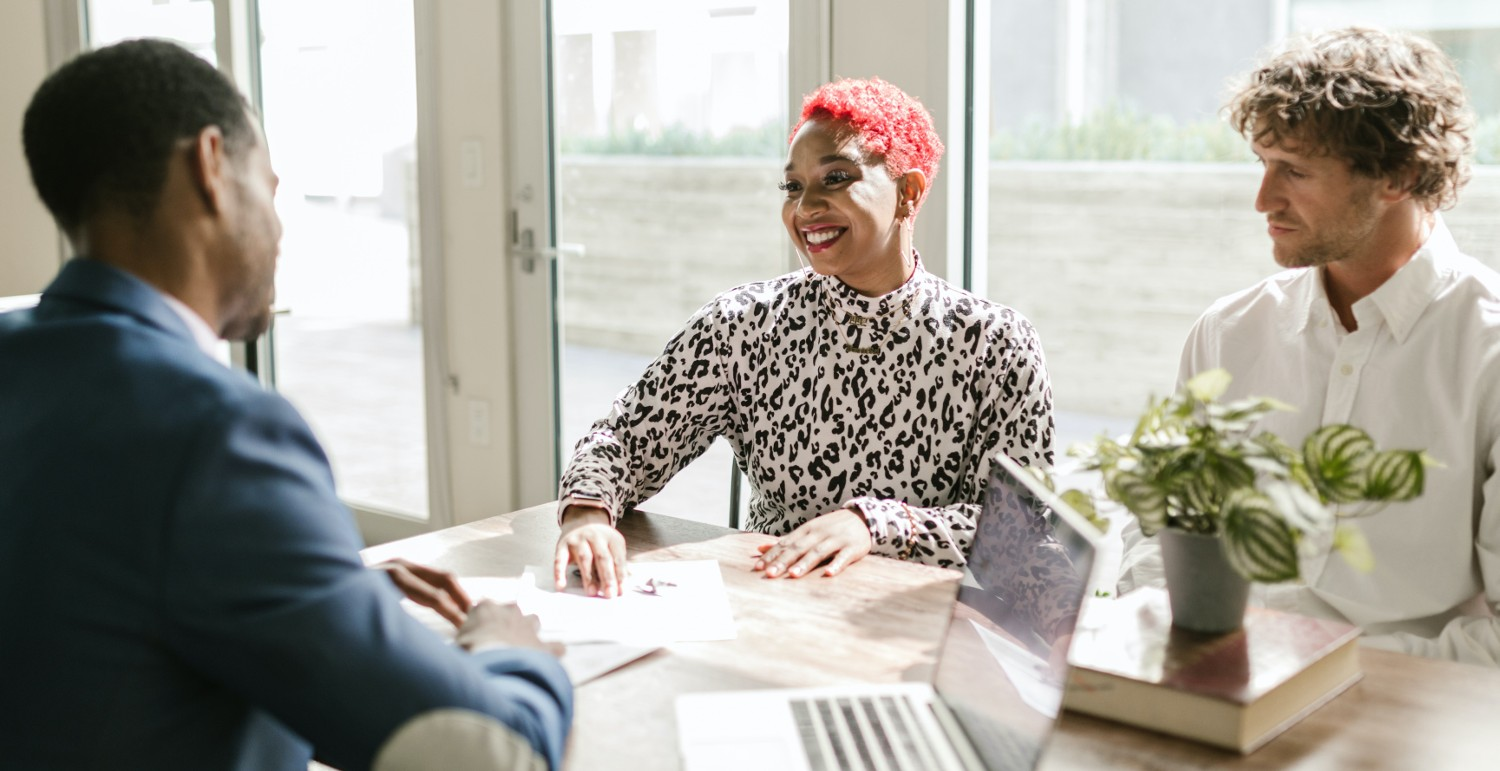
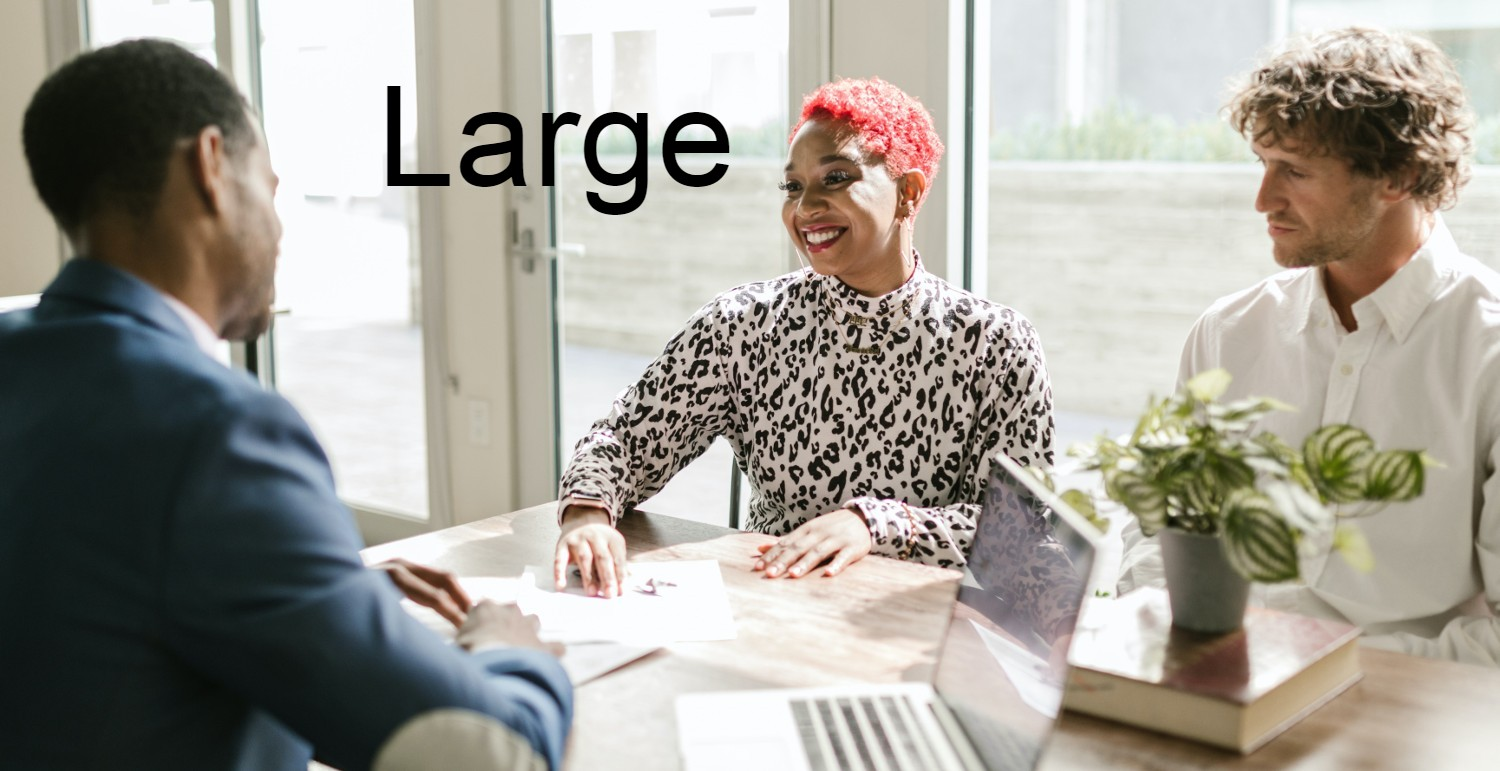
completed assignment 06

Changed region(s): [[0.2453, 0.0934, 0.4907, 0.2802]]

diff --git a/chamber/index.html b/chamber/index.html
@@ -38,8 +38,15 @@
           <li><a href="#ads" class="link">Ads</a></li>
         </ul>
       </nav>
+      <img class="logo" src="images/logo.webp" alt="logo">
       <h1>Bentonville, AR Chamber of Commerce</h1>
       <a href="#" class="link">Join Now</a>
+      
+
+ 
+    </header>
+    
+    <main>
       <picture>
         <source
           srcset="images/wdd230-org-small.jpg"
@@ -54,9 +61,6 @@
           alt="Hero Image"
         />
       </picture>
-      <div class="label">Small</div>
-    </header>
-    <main>
       <div class="card">
         <h2>About Us</h2>
       </div>
@@ -75,7 +79,7 @@
       <div class="card">
         <h2>Current Weather</h2>
         <h3>Bentonville, AR</h3>
-        <p>Feels: Cold</p>
+        <p id="windchill"></p>
         <p>Humidity: 200%</p>
       </div>
 
@@ -96,5 +100,6 @@
       <p>&copy; 2024 Chamber Website</p>
     </footer>
     <script src="scripts/darkmode.js"></script>
+    <script src="scripts/windchill.js"></script>
   </body>
 </html>

diff --git a/chamber/styles/base.css b/chamber/styles/base.css
@@ -1,14 +1,14 @@
 :root{
     --card-back: #c0c0c0;
-    --body-back: #C9DFE3;
-    --card-head: #25B03C;
+    --body-back: white;
+    --card-head: #298f3a;
     --main-head: #003A86;
     --head-text: white;
     --body-text: black;
 }
 .dark-mode {
-  --card-back: #4e4e4e;
-  --body-back: #5a626d;
+  --card-back: #555555;
+  --body-back: #111111;
   --card-head: #0c3413;
   --main-head: #001f49;
   --body-text: white;
@@ -66,13 +66,18 @@ header .link{
   text-decoration: underline;
   background-color: #636363;
 }
-
+.logo{
+  width: 100px;
+  height: 100px;
+}
 main{
   grid-column: 1/3;
   display: grid;
   grid-template-columns: 50% 50%;
 }
-
+picture{
+  grid-column: 1/3;
+}
 h2 {
   position: relative;
   top: -20px;

diff --git a/chamber/scripts/windchill.js b/chamber/scripts/windchill.js
@@ -1,0 +1,15 @@
+const temp = 32.0;
+const windspeed = 10.0;
+let windchill = 0.0;
+const display = document.getElementById("windchill");
+function getWindChill() {
+  display.textContent = "Wind Chill: ";
+  if (temp <= 50 && windspeed > 3) {
+    windchill = 35.74 + 0.6215 * temp - 0.4275 * windspeed;
+    display.textContent += windchill;
+  } else {
+    display.textContent += "N/A";
+  }
+}
+
+getWindChill();
